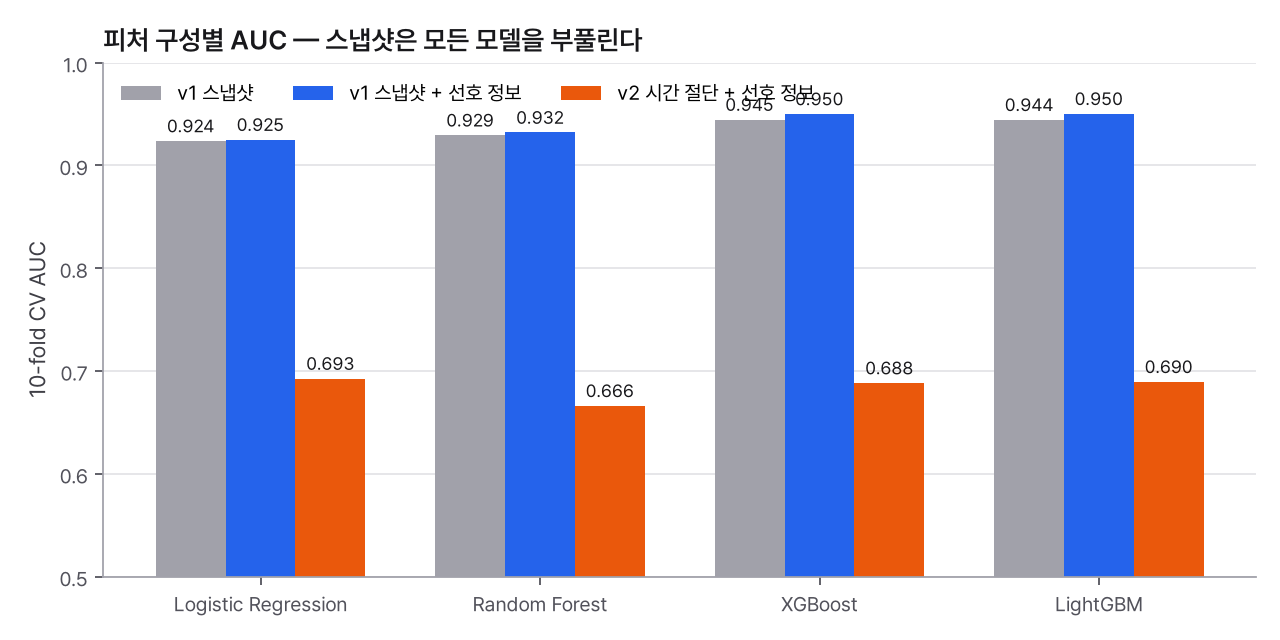
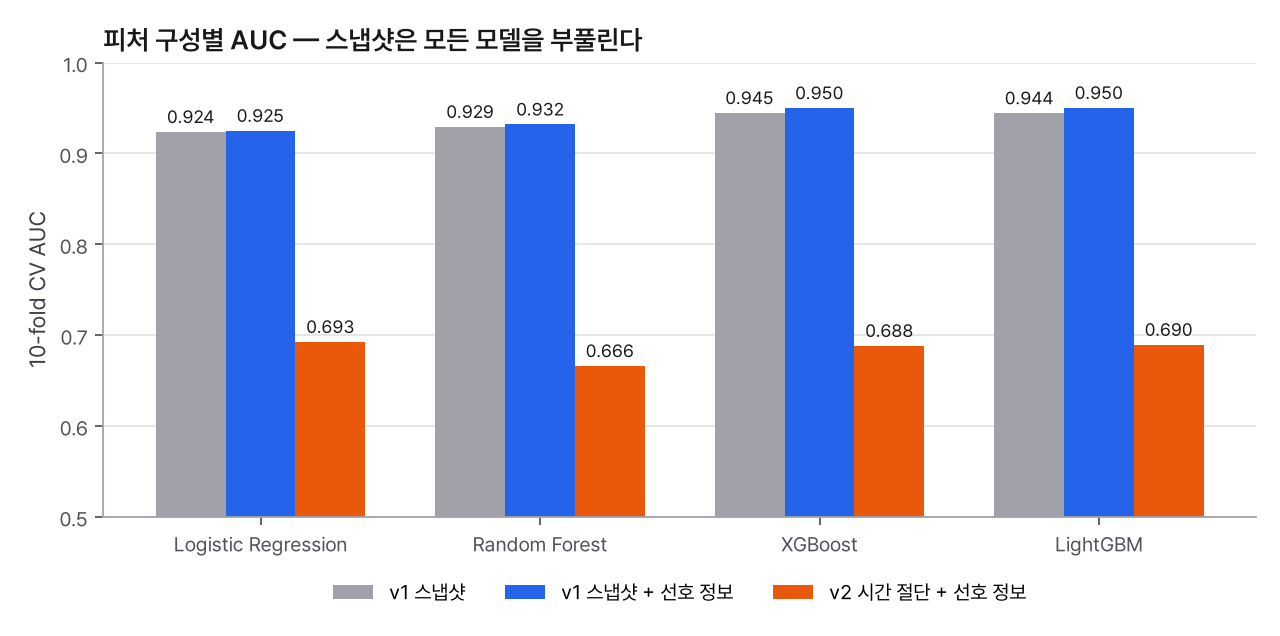
08: fig4 범례를 축 아래로 이동 (막대 라벨과 겹침 해소)

diff --git a/loyal-user-prediction-jobplatform/notebooks/08_site_figures.py b/loyal-user-prediction-jobplatform/notebooks/08_site_figures.py
@@ -129,7 +129,7 @@ ax.set_xticks(x, models)
 ax.set_ylim(0.5, 1.0)
 ax.set_ylabel("10-fold CV AUC")
 ax.grid(axis="y")
-ax.legend(loc="upper left", ncols=3)
+ax.legend(loc="upper center", bbox_to_anchor=(0.5, -0.1), ncols=3)
 ax.set_title("피처 구성별 AUC — 스냅샷은 모든 모델을 부풀린다")
 fig.tight_layout()
 save(fig, "fig4_auc_by_variant")
